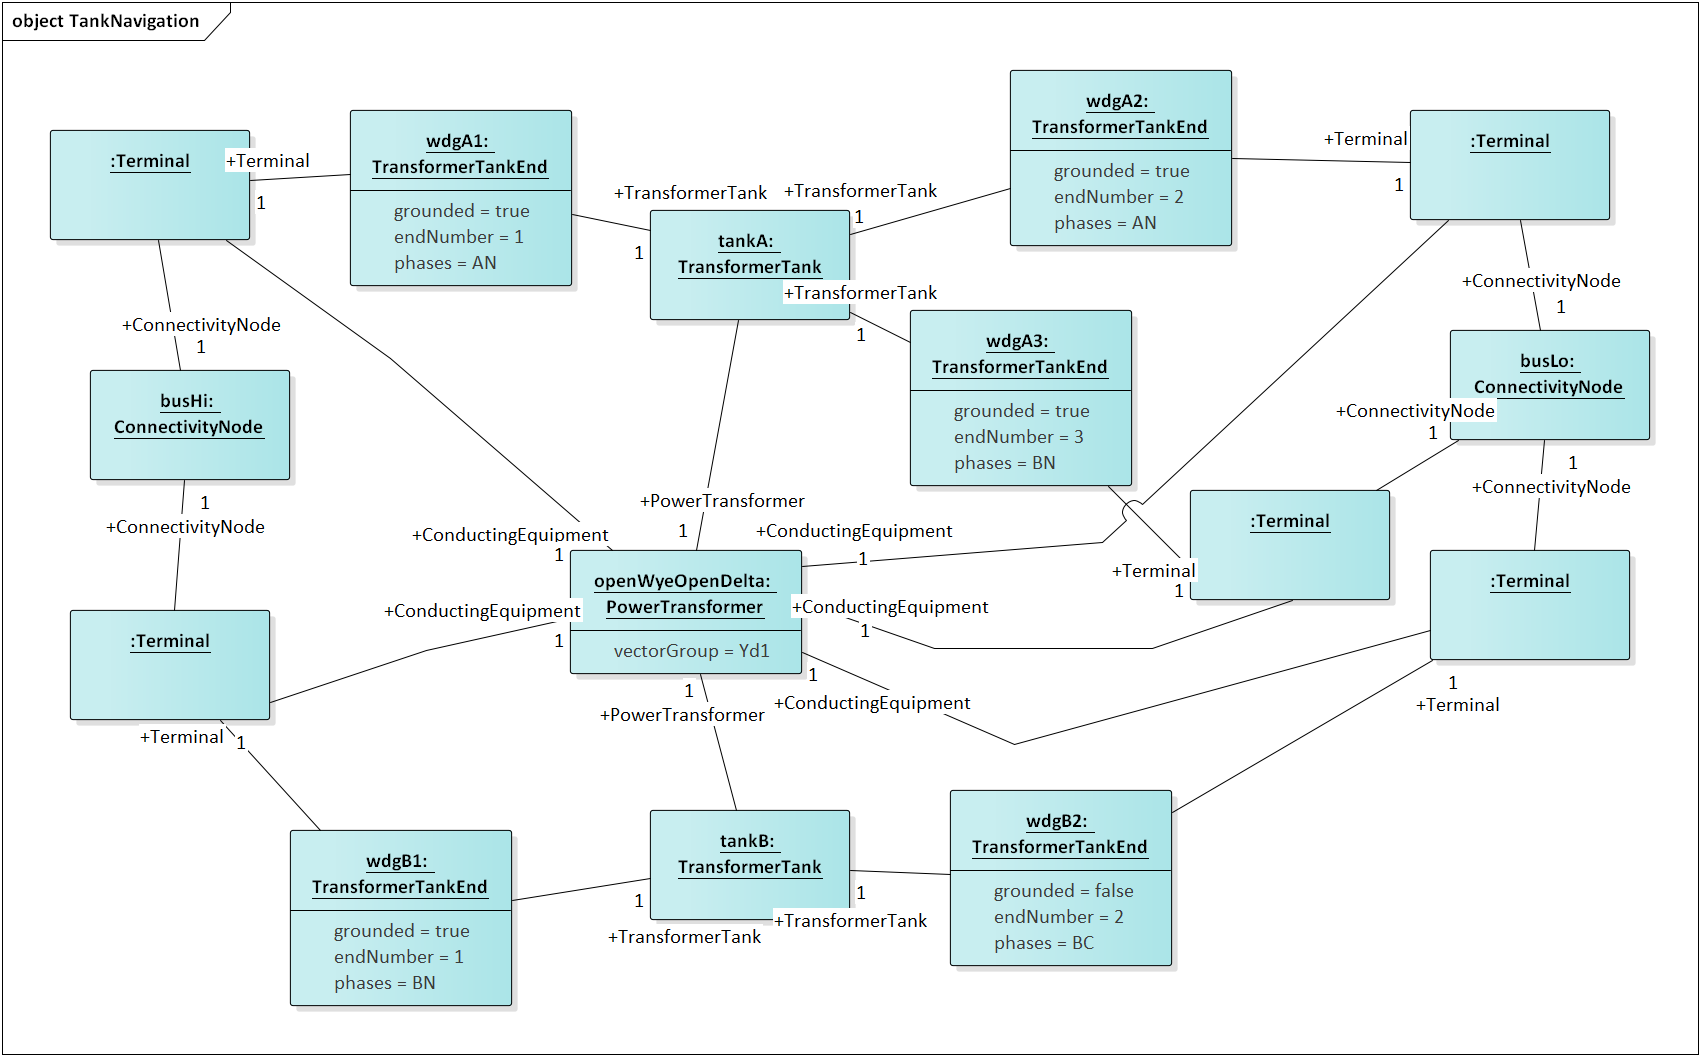
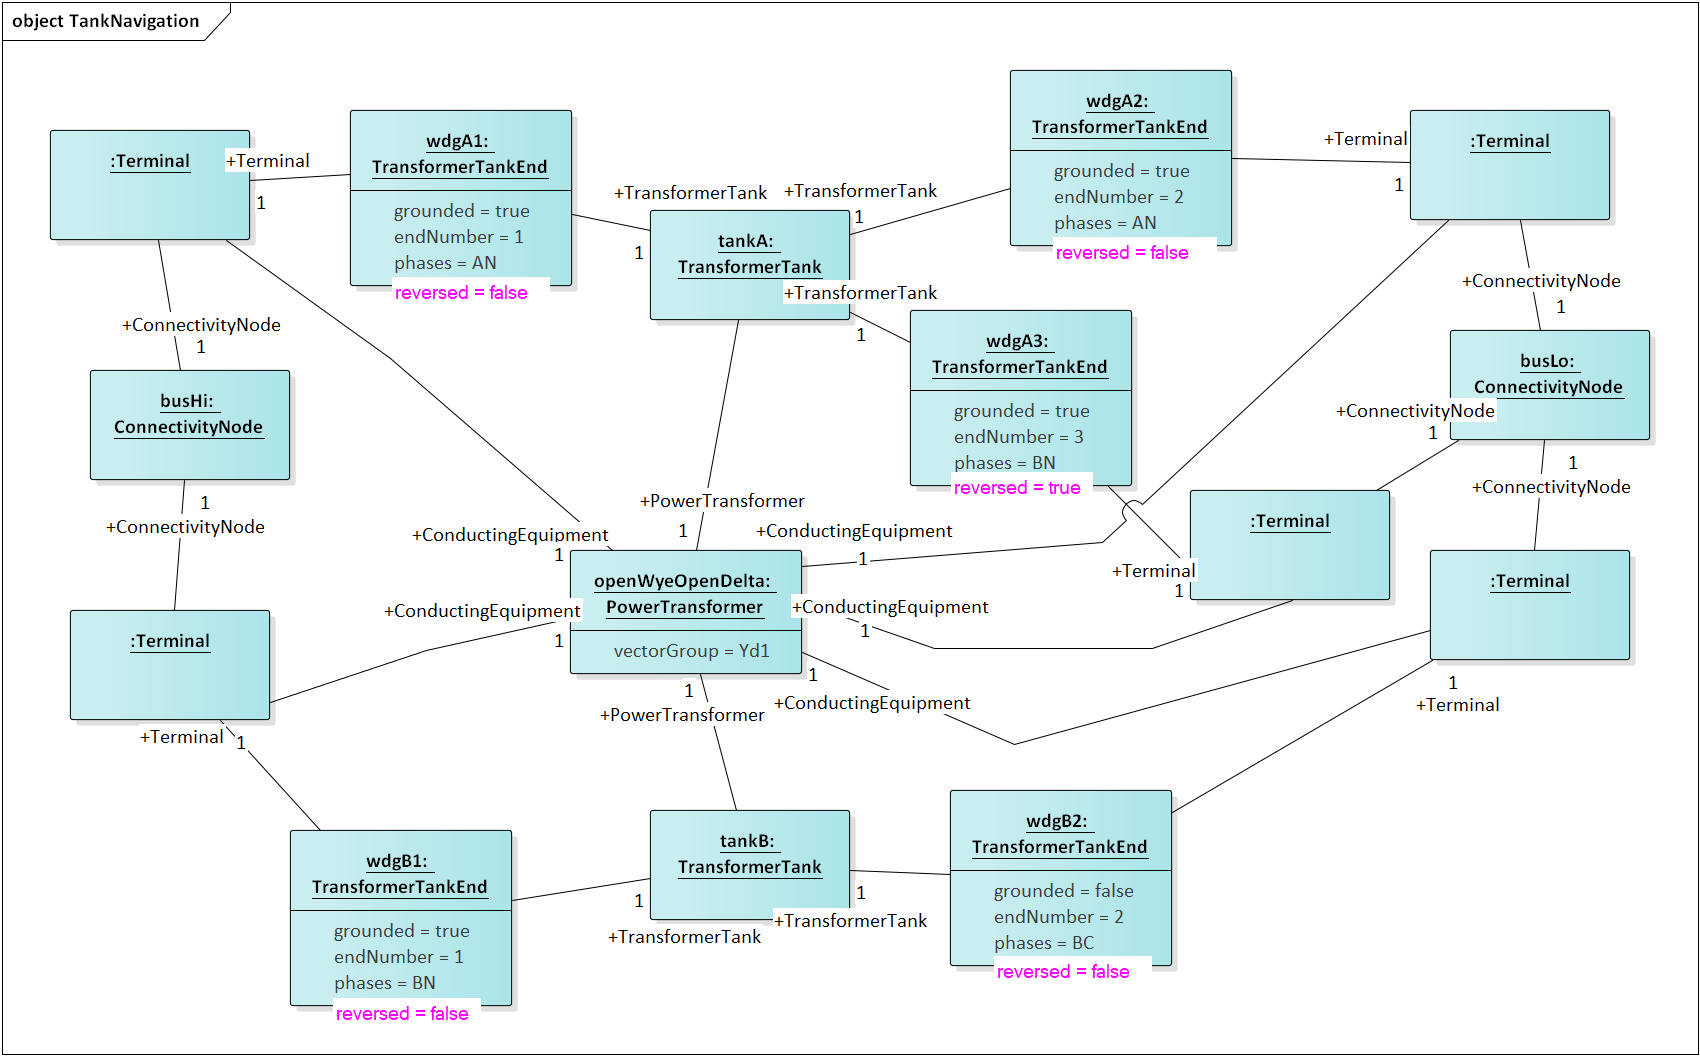
documented new TransformerTankEnd.reversed

diff --git a/docs/source/developer_resources/CDPSM.rst b/docs/source/developer_resources/CDPSM.rst
@@ -721,14 +721,8 @@ phase C will also exist at wdgHi, but this transformer doesn’t require
 it. We still assign vectorGroup Yd1 to the supervising PowerTransformer,
 as this is the typical case. The modeler should determine that. By
 comparison to Figure 27, there is a possible ambiguity in how endA3
-represents the polarity dot at the neutral end of Wdg A3. An earlier CIM
-proposal would have assigned phaseAngleClock = 6 on wdgA3, but the
-attribute was removed from TransformerTankEnd. It may not be possible to
-infer the correct winding polarities from the vectorGroup in all cases.
-There is a phaseAngleClock attribute on TransformerTankEndInfo, but that
-represents a shelf state of the tank, not necessarily connections in the
-field. Therefore, it may be necessary to propose the phaseAngleClock
-attribute for TransformerTankEnd.
+represents the polarity dot at the neutral end of Wdg A3. This is the
+purpose of TransformerTankEnd.reversed, which should be True for wdgA3.
 
 |imgcim19|
 
@@ -953,12 +947,9 @@ Possible CIM enhancements:
 
 4. Dielectric constant and soil resistivity (Figure 10)
 
-5. Clock angles for TransformerTankEnd (i.e. move phaseAngleClock from
-   PowerTransformerEnd to TransformerEnd (Figure 6)
+5. Add the Fault.stopDateTime attribute
 
-6. Add the Fault.stopDateTime attribute
-
-7. Single-phase asynchronous and synchronous machines.
+6. Single-phase asynchronous and synchronous machines.
 
 CIM Profile in CIMTool
 ~~~~~~~~~~~~~~~~~~~~~~
